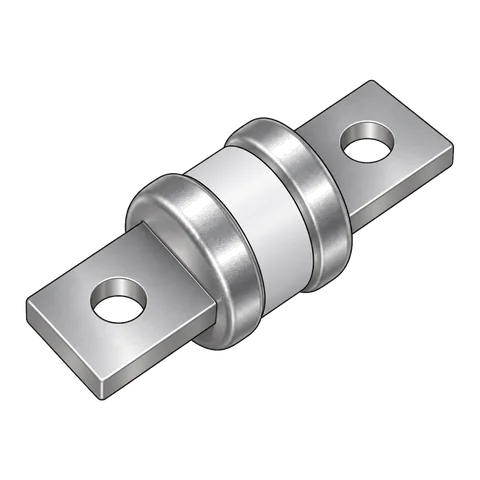
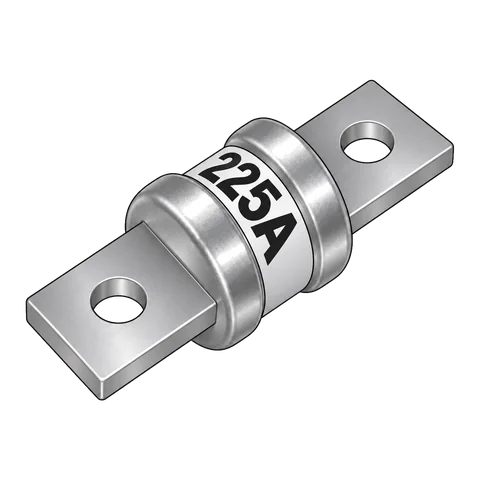
Einkaufsliste: Bild für Sicherung 225 A Klasse T mit 225A-Aufdruck

Changed region(s): [[0.4062, 0.3125, 0.625, 0.5625]]

diff --git a/einkaufsliste.html b/einkaufsliste.html
@@ -106,7 +106,7 @@
         <div class="wrap">
           <h2>Sicherungen &amp; Halter</h2><p class="gruppe-text">Jede Leitung braucht ihre passende Sicherung.</p>
           <div class="teile-grid">
-            <article class="teil" id="l3a2c4132"><div class="teil-bild"><img src="assets/teile/l3a2c4132.webp?v=7906ca96" alt="MIDI-Sicherungshalter 4-fach mit Sammelschiene (Symbolbild)" width="480" height="480" loading="lazy"><span>Symbolbild</span></div><h3>MIDI-Sicherungshalter 4-fach mit Sammelschiene</h3><a class="product-btn" href="/go/l3a2c4132/amazon" target="_blank" rel="sponsored noopener">Bei Amazon ansehen*</a></article><article class="teil" id="l375ffab0"><div class="teil-bild"><img src="assets/teile/l375ffab0.webp?v=a38f9c33" alt="Sicherung 20 A MIDI (Symbolbild)" width="480" height="480" loading="lazy"><span>Symbolbild</span></div><h3>Sicherung 20 A MIDI</h3><a class="product-btn" href="/go/l375ffab0/amazon" target="_blank" rel="sponsored noopener">Bei Amazon ansehen*</a></article><article class="teil" id="laf25c308"><div class="teil-bild"><img src="assets/teile/laf25c308.webp?v=ab091605" alt="Sicherung 30 A MIDI (Symbolbild)" width="480" height="480" loading="lazy"><span>Symbolbild</span></div><h3>Sicherung 30 A MIDI</h3><a class="product-btn" href="/go/laf25c308/amazon" target="_blank" rel="sponsored noopener">Bei Amazon ansehen*</a></article><article class="teil" id="lafc8c0a5"><div class="teil-bild"><img src="assets/teile/lafc8c0a5.webp?v=e2af2a5c" alt="Sicherung 60 A MIDI (Symbolbild)" width="480" height="480" loading="lazy"><span>Symbolbild</span></div><h3>Sicherung 60 A MIDI</h3><a class="product-btn" href="/go/lafc8c0a5/amazon" target="_blank" rel="sponsored noopener">Bei Amazon ansehen*</a></article><article class="teil" id="l2a4fa993"><div class="teil-bild"><img src="assets/teile/l2a4fa993.webp?v=d04e5171" alt="Sicherung 80 A MIDI (Symbolbild)" width="480" height="480" loading="lazy"><span>Symbolbild</span></div><h3>Sicherung 80 A MIDI</h3><a class="product-btn" href="/go/l2a4fa993/amazon" target="_blank" rel="sponsored noopener">Bei Amazon ansehen*</a></article><article class="teil" id="l34955105"><div class="teil-bild"><img src="assets/teile/l34955105.webp?v=7470c8ed" alt="Sicherung 100 A MEGA (Symbolbild)" width="480" height="480" loading="lazy"><span>Symbolbild</span></div><h3>Sicherung 100 A MEGA</h3><a class="product-btn" href="/go/l34955105/amazon" target="_blank" rel="sponsored noopener">Bei Amazon ansehen*</a></article><article class="teil" id="l05bef916"><div class="teil-bild"><img src="assets/teile/l05bef916.webp?v=4ea3605b" alt="Sicherung 125 A MEGA (Symbolbild)" width="480" height="480" loading="lazy"><span>Symbolbild</span></div><h3>Sicherung 125 A MEGA</h3><a class="product-btn" href="/go/l05bef916/amazon" target="_blank" rel="sponsored noopener">Bei Amazon ansehen*</a></article><article class="teil" id="l0fc5cf12"><div class="teil-bild"><img src="assets/teile/l0fc5cf12.webp?v=c7ad8592" alt="Sicherung 150 A Klasse T (Symbolbild)" width="480" height="480" loading="lazy"><span>Symbolbild</span></div><h3>Sicherung 150 A Klasse T</h3><a class="product-btn" href="/go/l0fc5cf12/amazon" target="_blank" rel="sponsored noopener">Bei Amazon ansehen*</a></article><article class="teil" id="l9ac77371"><div class="teil-bild"><img src="assets/teile/l9ac77371.webp?v=2ceb6a5e" alt="Sicherung 150 A MEGA (Symbolbild)" width="480" height="480" loading="lazy"><span>Symbolbild</span></div><h3>Sicherung 150 A MEGA</h3><a class="product-btn" href="/go/l9ac77371/amazon" target="_blank" rel="sponsored noopener">Bei Amazon ansehen*</a></article><article class="teil" id="laf612964"><div class="teil-bild"><img src="assets/teile/laf612964.webp?v=8437ad65" alt="Sicherung 200 A MEGA (Symbolbild)" width="480" height="480" loading="lazy"><span>Symbolbild</span></div><h3>Sicherung 200 A MEGA</h3><a class="product-btn" href="/go/laf612964/amazon" target="_blank" rel="sponsored noopener">Bei Amazon ansehen*</a></article><article class="teil" id="l7317daa7"><div class="teil-bild"><img src="assets/teile/l7317daa7.webp?v=5cc62de4" alt="Sicherung 225 A Klasse T (Symbolbild)" width="480" height="480" loading="lazy"><span>Symbolbild</span></div><h3>Sicherung 225 A Klasse T</h3><a class="product-btn" href="/go/l7317daa7/amazon" target="_blank" rel="sponsored noopener">Bei Amazon ansehen*</a></article><article class="teil" id="le561ec30"><div class="teil-bild"><img src="assets/teile/le561ec30.webp?v=fe1b621b" alt="Sicherung 225 A MEGA (Symbolbild)" width="480" height="480" loading="lazy"><span>Symbolbild</span></div><h3>Sicherung 225 A MEGA</h3><a class="product-btn" href="/go/le561ec30/amazon" target="_blank" rel="sponsored noopener">Bei Amazon ansehen*</a></article><article class="teil" id="lfc280a8e"><div class="teil-bild"><img src="assets/teile/lfc280a8e.webp?v=5cc62de4" alt="Sicherung 250 A Klasse T (Symbolbild)" width="480" height="480" loading="lazy"><span>Symbolbild</span></div><h3>Sicherung 250 A Klasse T</h3><a class="product-btn" href="/go/lfc280a8e/amazon" target="_blank" rel="sponsored noopener">Bei Amazon ansehen*</a></article><article class="teil" id="lb0905d3d"><div class="teil-bild"><img src="assets/teile/lb0905d3d.webp?v=fe1b621b" alt="Sicherung 250 A MEGA (Symbolbild)" width="480" height="480" loading="lazy"><span>Symbolbild</span></div><h3>Sicherung 250 A MEGA</h3><a class="product-btn" href="/go/lb0905d3d/amazon" target="_blank" rel="sponsored noopener">Bei Amazon ansehen*</a></article><article class="teil" id="l9b912eab"><div class="teil-bild"><img src="assets/teile/l9b912eab.webp?v=fe1b621b" alt="Sicherung 300 A MEGA (Symbolbild)" width="480" height="480" loading="lazy"><span>Symbolbild</span></div><h3>Sicherung 300 A MEGA</h3><a class="product-btn" href="/go/l9b912eab/amazon" target="_blank" rel="sponsored noopener">Bei Amazon ansehen*</a></article><article class="teil" id="lf3bb8b84"><div class="teil-bild"><img src="assets/teile/lf3bb8b84.webp?v=5cc62de4" alt="Sicherung 350 A Klasse T (Symbolbild)" width="480" height="480" loading="lazy"><span>Symbolbild</span></div><h3>Sicherung 350 A Klasse T</h3><a class="product-btn" href="/go/lf3bb8b84/amazon" target="_blank" rel="sponsored noopener">Bei Amazon ansehen*</a></article><article class="teil" id="lad38f99a"><div class="teil-bild"><img src="assets/teile/lad38f99a.webp?v=d82100f2" alt="Sicherung Klasse-T-Halter bis 200 A (Symbolbild)" width="480" height="480" loading="lazy"><span>Symbolbild</span></div><h3>Sicherung Klasse-T-Halter bis 200 A</h3><a class="product-btn" href="/go/lad38f99a/amazon" target="_blank" rel="sponsored noopener">Bei Amazon ansehen*</a></article><article class="teil" id="l50ed28ad"><div class="teil-bild"><img src="assets/teile/l50ed28ad.webp?v=d82100f2" alt="Sicherung Klasse-T-Sicherungshalter (Symbolbild)" width="480" height="480" loading="lazy"><span>Symbolbild</span></div><h3>Sicherung Klasse-T-Sicherungshalter</h3><a class="product-btn" href="/go/l50ed28ad/amazon" target="_blank" rel="sponsored noopener">Bei Amazon ansehen*</a></article><article class="teil" id="l4f0e743e"><div class="teil-bild"><img src="assets/teile/l4f0e743e.webp?v=aafb087d" alt="Sicherung MEGA-Sicherungshalter (Symbolbild)" width="480" height="480" loading="lazy"><span>Symbolbild</span></div><h3>Sicherung MEGA-Sicherungshalter</h3><a class="product-btn" href="/go/l4f0e743e/amazon" target="_blank" rel="sponsored noopener">Bei Amazon ansehen*</a></article><article class="teil" id="ld64c7f2d"><div class="teil-bild"><img src="assets/teile/ld64c7f2d.webp?v=f7b561c2" alt="Sicherung MIDI-Sicherungshalter (Symbolbild)" width="480" height="480" loading="lazy"><span>Symbolbild</span></div><h3>Sicherung MIDI-Sicherungshalter</h3><a class="product-btn" href="/go/ld64c7f2d/amazon" target="_blank" rel="sponsored noopener">Bei Amazon ansehen*</a></article>
+            <article class="teil" id="l3a2c4132"><div class="teil-bild"><img src="assets/teile/l3a2c4132.webp?v=7906ca96" alt="MIDI-Sicherungshalter 4-fach mit Sammelschiene (Symbolbild)" width="480" height="480" loading="lazy"><span>Symbolbild</span></div><h3>MIDI-Sicherungshalter 4-fach mit Sammelschiene</h3><a class="product-btn" href="/go/l3a2c4132/amazon" target="_blank" rel="sponsored noopener">Bei Amazon ansehen*</a></article><article class="teil" id="l375ffab0"><div class="teil-bild"><img src="assets/teile/l375ffab0.webp?v=a38f9c33" alt="Sicherung 20 A MIDI (Symbolbild)" width="480" height="480" loading="lazy"><span>Symbolbild</span></div><h3>Sicherung 20 A MIDI</h3><a class="product-btn" href="/go/l375ffab0/amazon" target="_blank" rel="sponsored noopener">Bei Amazon ansehen*</a></article><article class="teil" id="laf25c308"><div class="teil-bild"><img src="assets/teile/laf25c308.webp?v=ab091605" alt="Sicherung 30 A MIDI (Symbolbild)" width="480" height="480" loading="lazy"><span>Symbolbild</span></div><h3>Sicherung 30 A MIDI</h3><a class="product-btn" href="/go/laf25c308/amazon" target="_blank" rel="sponsored noopener">Bei Amazon ansehen*</a></article><article class="teil" id="lafc8c0a5"><div class="teil-bild"><img src="assets/teile/lafc8c0a5.webp?v=e2af2a5c" alt="Sicherung 60 A MIDI (Symbolbild)" width="480" height="480" loading="lazy"><span>Symbolbild</span></div><h3>Sicherung 60 A MIDI</h3><a class="product-btn" href="/go/lafc8c0a5/amazon" target="_blank" rel="sponsored noopener">Bei Amazon ansehen*</a></article><article class="teil" id="l2a4fa993"><div class="teil-bild"><img src="assets/teile/l2a4fa993.webp?v=d04e5171" alt="Sicherung 80 A MIDI (Symbolbild)" width="480" height="480" loading="lazy"><span>Symbolbild</span></div><h3>Sicherung 80 A MIDI</h3><a class="product-btn" href="/go/l2a4fa993/amazon" target="_blank" rel="sponsored noopener">Bei Amazon ansehen*</a></article><article class="teil" id="l34955105"><div class="teil-bild"><img src="assets/teile/l34955105.webp?v=7470c8ed" alt="Sicherung 100 A MEGA (Symbolbild)" width="480" height="480" loading="lazy"><span>Symbolbild</span></div><h3>Sicherung 100 A MEGA</h3><a class="product-btn" href="/go/l34955105/amazon" target="_blank" rel="sponsored noopener">Bei Amazon ansehen*</a></article><article class="teil" id="l05bef916"><div class="teil-bild"><img src="assets/teile/l05bef916.webp?v=4ea3605b" alt="Sicherung 125 A MEGA (Symbolbild)" width="480" height="480" loading="lazy"><span>Symbolbild</span></div><h3>Sicherung 125 A MEGA</h3><a class="product-btn" href="/go/l05bef916/amazon" target="_blank" rel="sponsored noopener">Bei Amazon ansehen*</a></article><article class="teil" id="l0fc5cf12"><div class="teil-bild"><img src="assets/teile/l0fc5cf12.webp?v=c7ad8592" alt="Sicherung 150 A Klasse T (Symbolbild)" width="480" height="480" loading="lazy"><span>Symbolbild</span></div><h3>Sicherung 150 A Klasse T</h3><a class="product-btn" href="/go/l0fc5cf12/amazon" target="_blank" rel="sponsored noopener">Bei Amazon ansehen*</a></article><article class="teil" id="l9ac77371"><div class="teil-bild"><img src="assets/teile/l9ac77371.webp?v=2ceb6a5e" alt="Sicherung 150 A MEGA (Symbolbild)" width="480" height="480" loading="lazy"><span>Symbolbild</span></div><h3>Sicherung 150 A MEGA</h3><a class="product-btn" href="/go/l9ac77371/amazon" target="_blank" rel="sponsored noopener">Bei Amazon ansehen*</a></article><article class="teil" id="laf612964"><div class="teil-bild"><img src="assets/teile/laf612964.webp?v=8437ad65" alt="Sicherung 200 A MEGA (Symbolbild)" width="480" height="480" loading="lazy"><span>Symbolbild</span></div><h3>Sicherung 200 A MEGA</h3><a class="product-btn" href="/go/laf612964/amazon" target="_blank" rel="sponsored noopener">Bei Amazon ansehen*</a></article><article class="teil" id="l7317daa7"><div class="teil-bild"><img src="assets/teile/l7317daa7.webp?v=9c0c19fc" alt="Sicherung 225 A Klasse T (Symbolbild)" width="480" height="480" loading="lazy"><span>Symbolbild</span></div><h3>Sicherung 225 A Klasse T</h3><a class="product-btn" href="/go/l7317daa7/amazon" target="_blank" rel="sponsored noopener">Bei Amazon ansehen*</a></article><article class="teil" id="le561ec30"><div class="teil-bild"><img src="assets/teile/le561ec30.webp?v=fe1b621b" alt="Sicherung 225 A MEGA (Symbolbild)" width="480" height="480" loading="lazy"><span>Symbolbild</span></div><h3>Sicherung 225 A MEGA</h3><a class="product-btn" href="/go/le561ec30/amazon" target="_blank" rel="sponsored noopener">Bei Amazon ansehen*</a></article><article class="teil" id="lfc280a8e"><div class="teil-bild"><img src="assets/teile/lfc280a8e.webp?v=5cc62de4" alt="Sicherung 250 A Klasse T (Symbolbild)" width="480" height="480" loading="lazy"><span>Symbolbild</span></div><h3>Sicherung 250 A Klasse T</h3><a class="product-btn" href="/go/lfc280a8e/amazon" target="_blank" rel="sponsored noopener">Bei Amazon ansehen*</a></article><article class="teil" id="lb0905d3d"><div class="teil-bild"><img src="assets/teile/lb0905d3d.webp?v=fe1b621b" alt="Sicherung 250 A MEGA (Symbolbild)" width="480" height="480" loading="lazy"><span>Symbolbild</span></div><h3>Sicherung 250 A MEGA</h3><a class="product-btn" href="/go/lb0905d3d/amazon" target="_blank" rel="sponsored noopener">Bei Amazon ansehen*</a></article><article class="teil" id="l9b912eab"><div class="teil-bild"><img src="assets/teile/l9b912eab.webp?v=fe1b621b" alt="Sicherung 300 A MEGA (Symbolbild)" width="480" height="480" loading="lazy"><span>Symbolbild</span></div><h3>Sicherung 300 A MEGA</h3><a class="product-btn" href="/go/l9b912eab/amazon" target="_blank" rel="sponsored noopener">Bei Amazon ansehen*</a></article><article class="teil" id="lf3bb8b84"><div class="teil-bild"><img src="assets/teile/lf3bb8b84.webp?v=5cc62de4" alt="Sicherung 350 A Klasse T (Symbolbild)" width="480" height="480" loading="lazy"><span>Symbolbild</span></div><h3>Sicherung 350 A Klasse T</h3><a class="product-btn" href="/go/lf3bb8b84/amazon" target="_blank" rel="sponsored noopener">Bei Amazon ansehen*</a></article><article class="teil" id="lad38f99a"><div class="teil-bild"><img src="assets/teile/lad38f99a.webp?v=d82100f2" alt="Sicherung Klasse-T-Halter bis 200 A (Symbolbild)" width="480" height="480" loading="lazy"><span>Symbolbild</span></div><h3>Sicherung Klasse-T-Halter bis 200 A</h3><a class="product-btn" href="/go/lad38f99a/amazon" target="_blank" rel="sponsored noopener">Bei Amazon ansehen*</a></article><article class="teil" id="l50ed28ad"><div class="teil-bild"><img src="assets/teile/l50ed28ad.webp?v=d82100f2" alt="Sicherung Klasse-T-Sicherungshalter (Symbolbild)" width="480" height="480" loading="lazy"><span>Symbolbild</span></div><h3>Sicherung Klasse-T-Sicherungshalter</h3><a class="product-btn" href="/go/l50ed28ad/amazon" target="_blank" rel="sponsored noopener">Bei Amazon ansehen*</a></article><article class="teil" id="l4f0e743e"><div class="teil-bild"><img src="assets/teile/l4f0e743e.webp?v=aafb087d" alt="Sicherung MEGA-Sicherungshalter (Symbolbild)" width="480" height="480" loading="lazy"><span>Symbolbild</span></div><h3>Sicherung MEGA-Sicherungshalter</h3><a class="product-btn" href="/go/l4f0e743e/amazon" target="_blank" rel="sponsored noopener">Bei Amazon ansehen*</a></article><article class="teil" id="ld64c7f2d"><div class="teil-bild"><img src="assets/teile/ld64c7f2d.webp?v=f7b561c2" alt="Sicherung MIDI-Sicherungshalter (Symbolbild)" width="480" height="480" loading="lazy"><span>Symbolbild</span></div><h3>Sicherung MIDI-Sicherungshalter</h3><a class="product-btn" href="/go/ld64c7f2d/amazon" target="_blank" rel="sponsored noopener">Bei Amazon ansehen*</a></article>
           </div>
         </div>
       </section>
